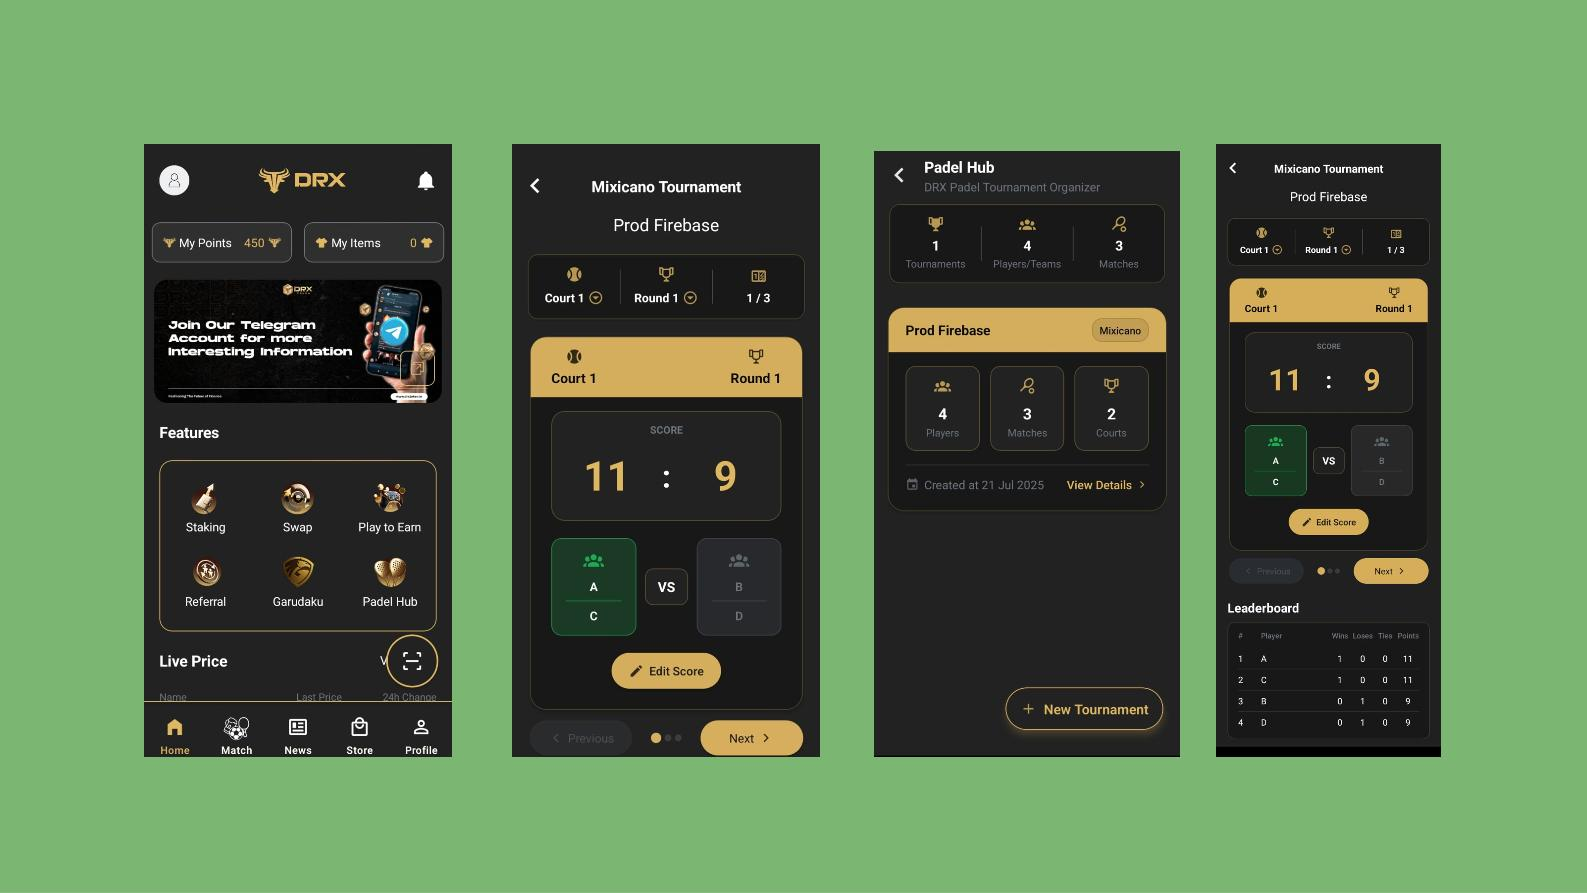
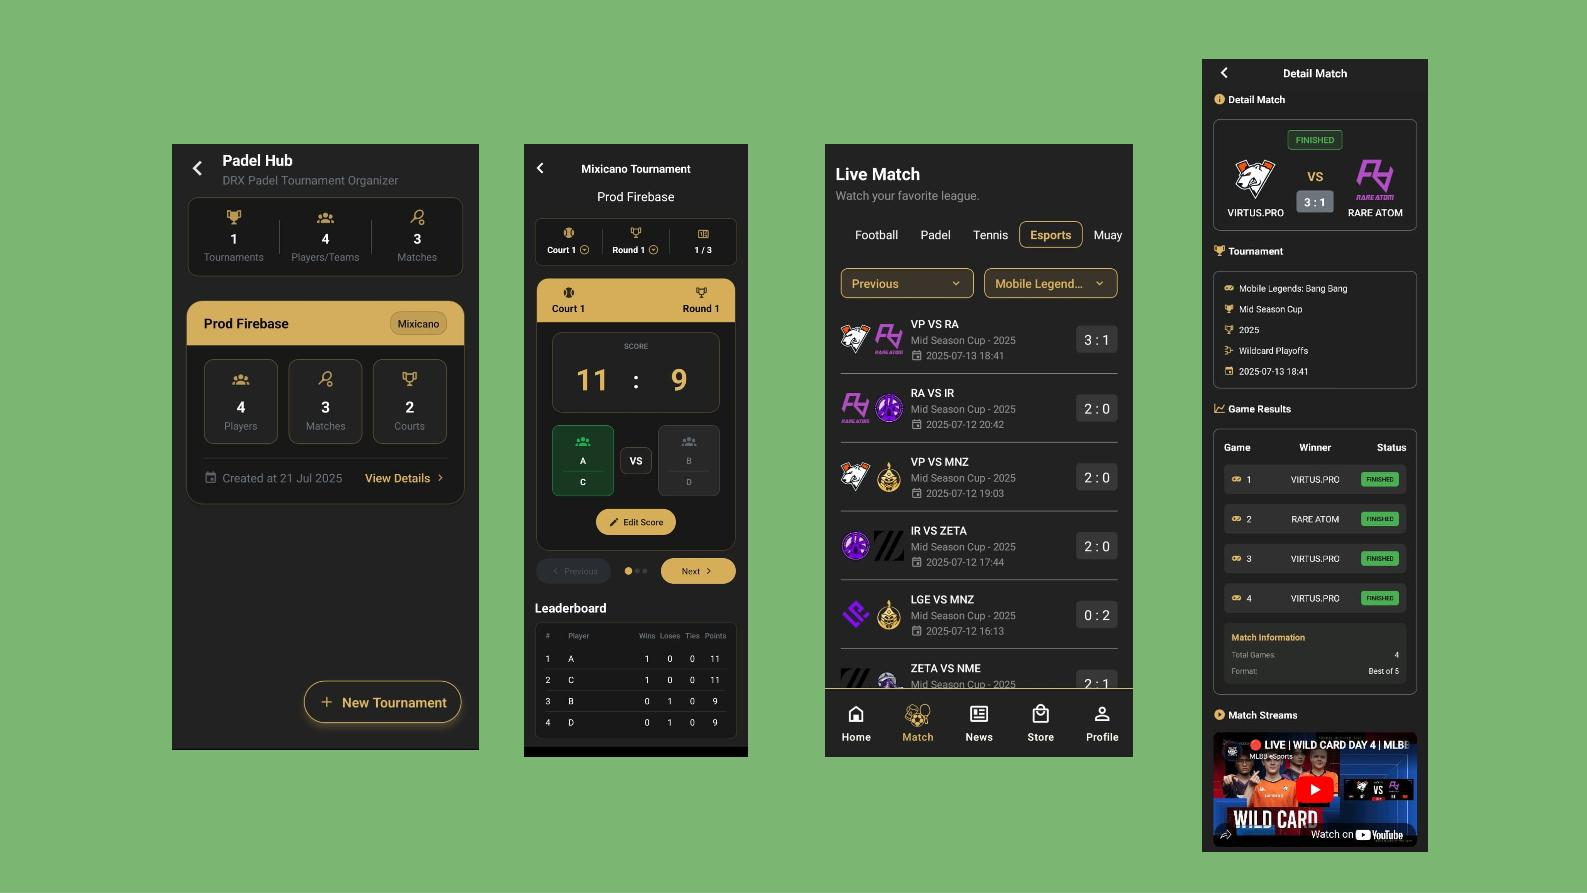
add sportnet pic and project

Changed region(s): [[0.0926, 0.0605, 0.9263, 0.9675]]

diff --git a/src/arrays/project.js b/src/arrays/project.js
@@ -19,6 +19,15 @@ let projects = [
     },
     {
         _id: {
+            $oid: "drxsportnet",
+        },
+        label: "DRX Sportnet",
+        caption:
+            "Mobile Application for users. Users can track their matches of Padel Tournament. Can see live Esport Matches and the result of the matches.",
+        image: "https://raw.githubusercontent.com/Shercosta/personal-website-fe/refs/heads/main/public/sportnet.jpg",
+    },
+    {
+        _id: {
             $oid: "sapambakita",
         },
         label: "Sapa Mbak Ita",
